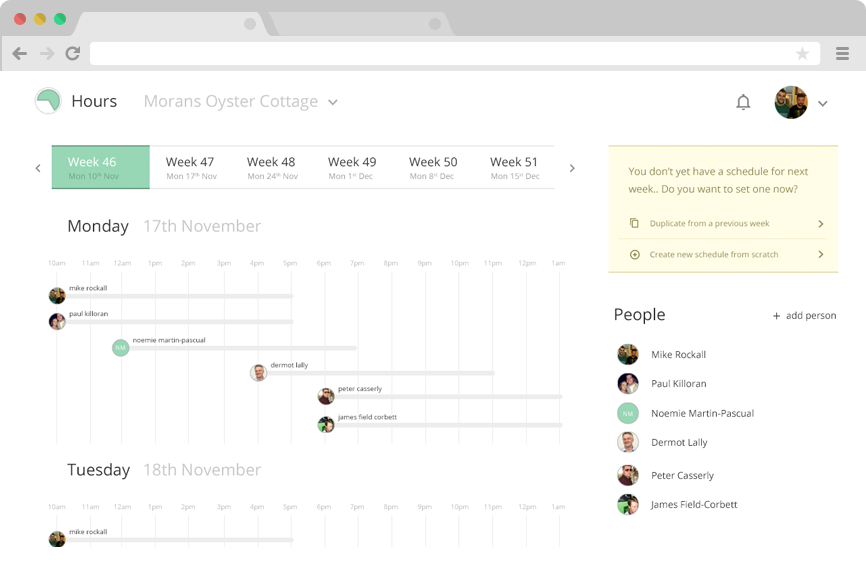
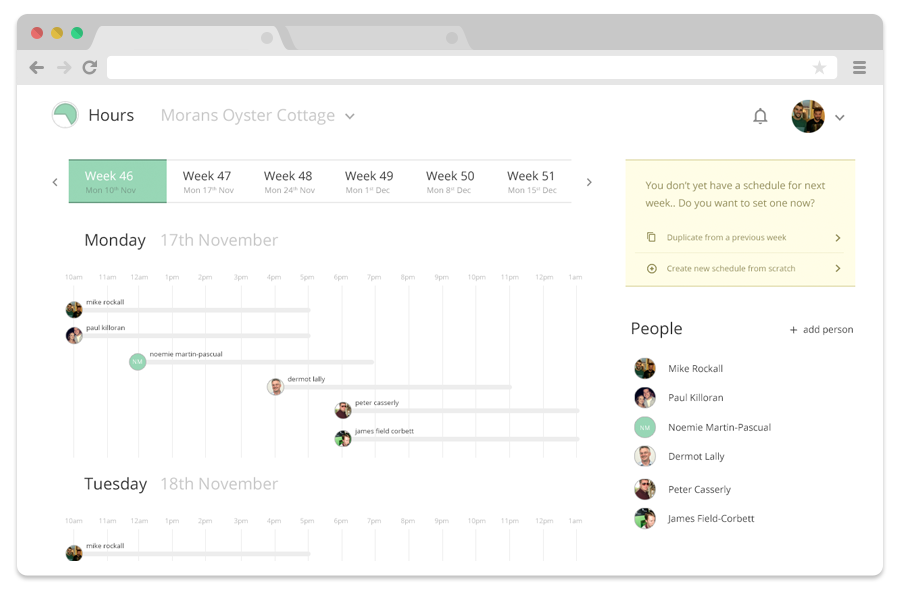
Added an iPhone screenshot and rearranged those elements below the hero image

diff --git a/css/main.css b/css/main.css
@@ -100,7 +100,8 @@ textarea {
 .hero{
     position: relative;
     overflow: hidden;
-    height: 725px;
+    height: 630px;
+    padding: 100px 0 0;
     background: url('images/hero.jpg') center center;
     border-bottom: 20px solid #ddd;
 
@@ -110,33 +111,20 @@ textarea {
 
 .hero .brand{
     margin: 0 auto;
-    padding: 120px 0 0;
+    padding: 90px 0 0;
     width: 300px;
     text-align: center;
     font-size: 5em;
     font-weight: 600;
     color: white;
-    background: url('images/logo.png') center 35px no-repeat;
+    background: url('images/logo.png') center 10px no-repeat;
 }
 
 .hero .tagline{
-    padding: 10px 0;
     text-align: center;
     color: #888;
     font-size: 2.5em;
     font-weight: 300;
-}
-
-.hero .browser{
-    position: absolute;
-    top: 100%; left: 50%;
-    background: url('images/browser.png');
-    height: 562px;
-    width: 866px;
-
-  -webkit-transform: translateX(-50%) translateY(-380px);
-      -ms-transform: translateX(-50%) translateY(-380px);
-          transform: translateX(-50%) translateY(-380px);
 }
 
 @media only screen and (max-width: 767px) {
@@ -145,9 +133,35 @@ textarea {
         height: auto;
         border-bottom-width: 10px;
     }
-    .hero .browser{
+
+    .browser{
         display: none;
     }
+}
+
+/* ================== DEVICES ================== */
+
+.devices{
+    position: relative;
+    width: 1000px;
+    height: 280px;
+    margin: 0 auto;
+}
+
+.browser{
+    position: absolute;
+    bottom: 0; left: 0;
+    background: url('images/browser.png');
+    height: 590px;
+    width: 900px;
+}
+
+.phone{
+    position: absolute;
+    bottom: 0; right: 0;
+    background: url('images/iphone.png');
+    height: 540px;
+    width: 290px;
 }
 
 /* ================== FEATURES ================== */

diff --git a/index.html b/index.html
@@ -22,7 +22,11 @@
         <div class="hero">
             <div class="brand">Hours</div>
             <div class="tagline">Never miss a shift again</div>
+        </div>
+
+        <div class="devices">
             <div class="browser"></div>
+            <div class="phone"></div>
         </div>
 
         <div class="features clearfix">
